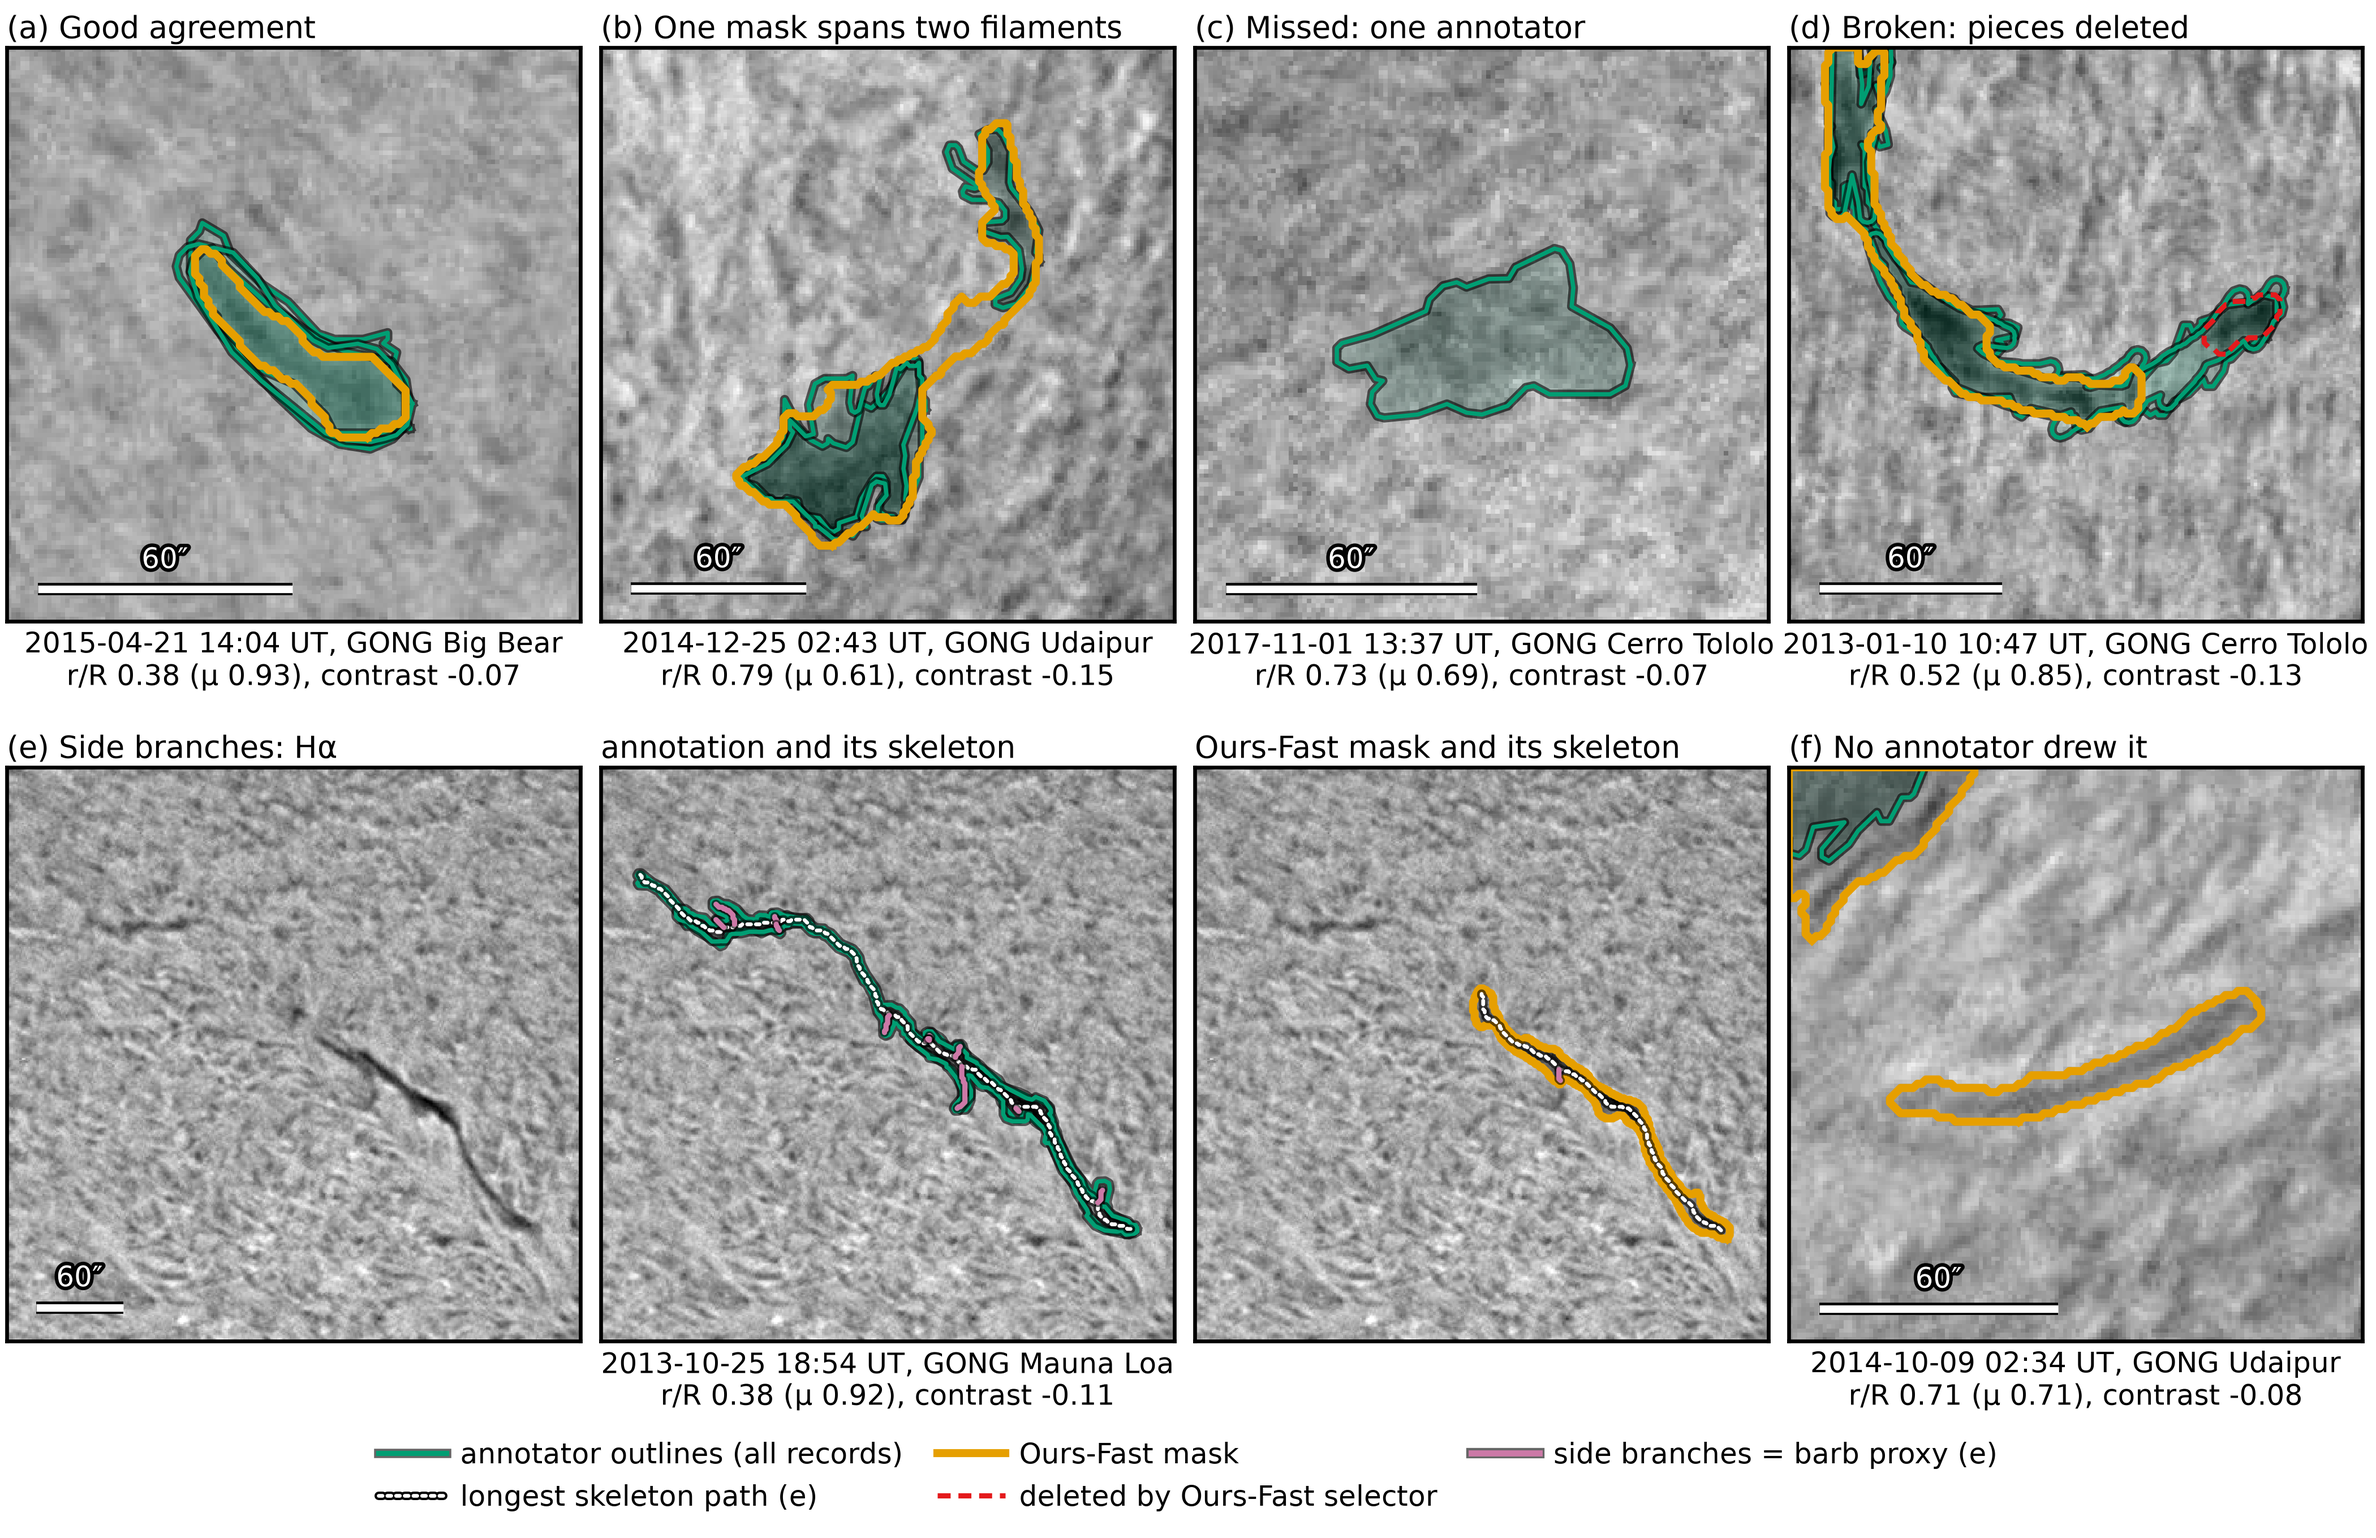
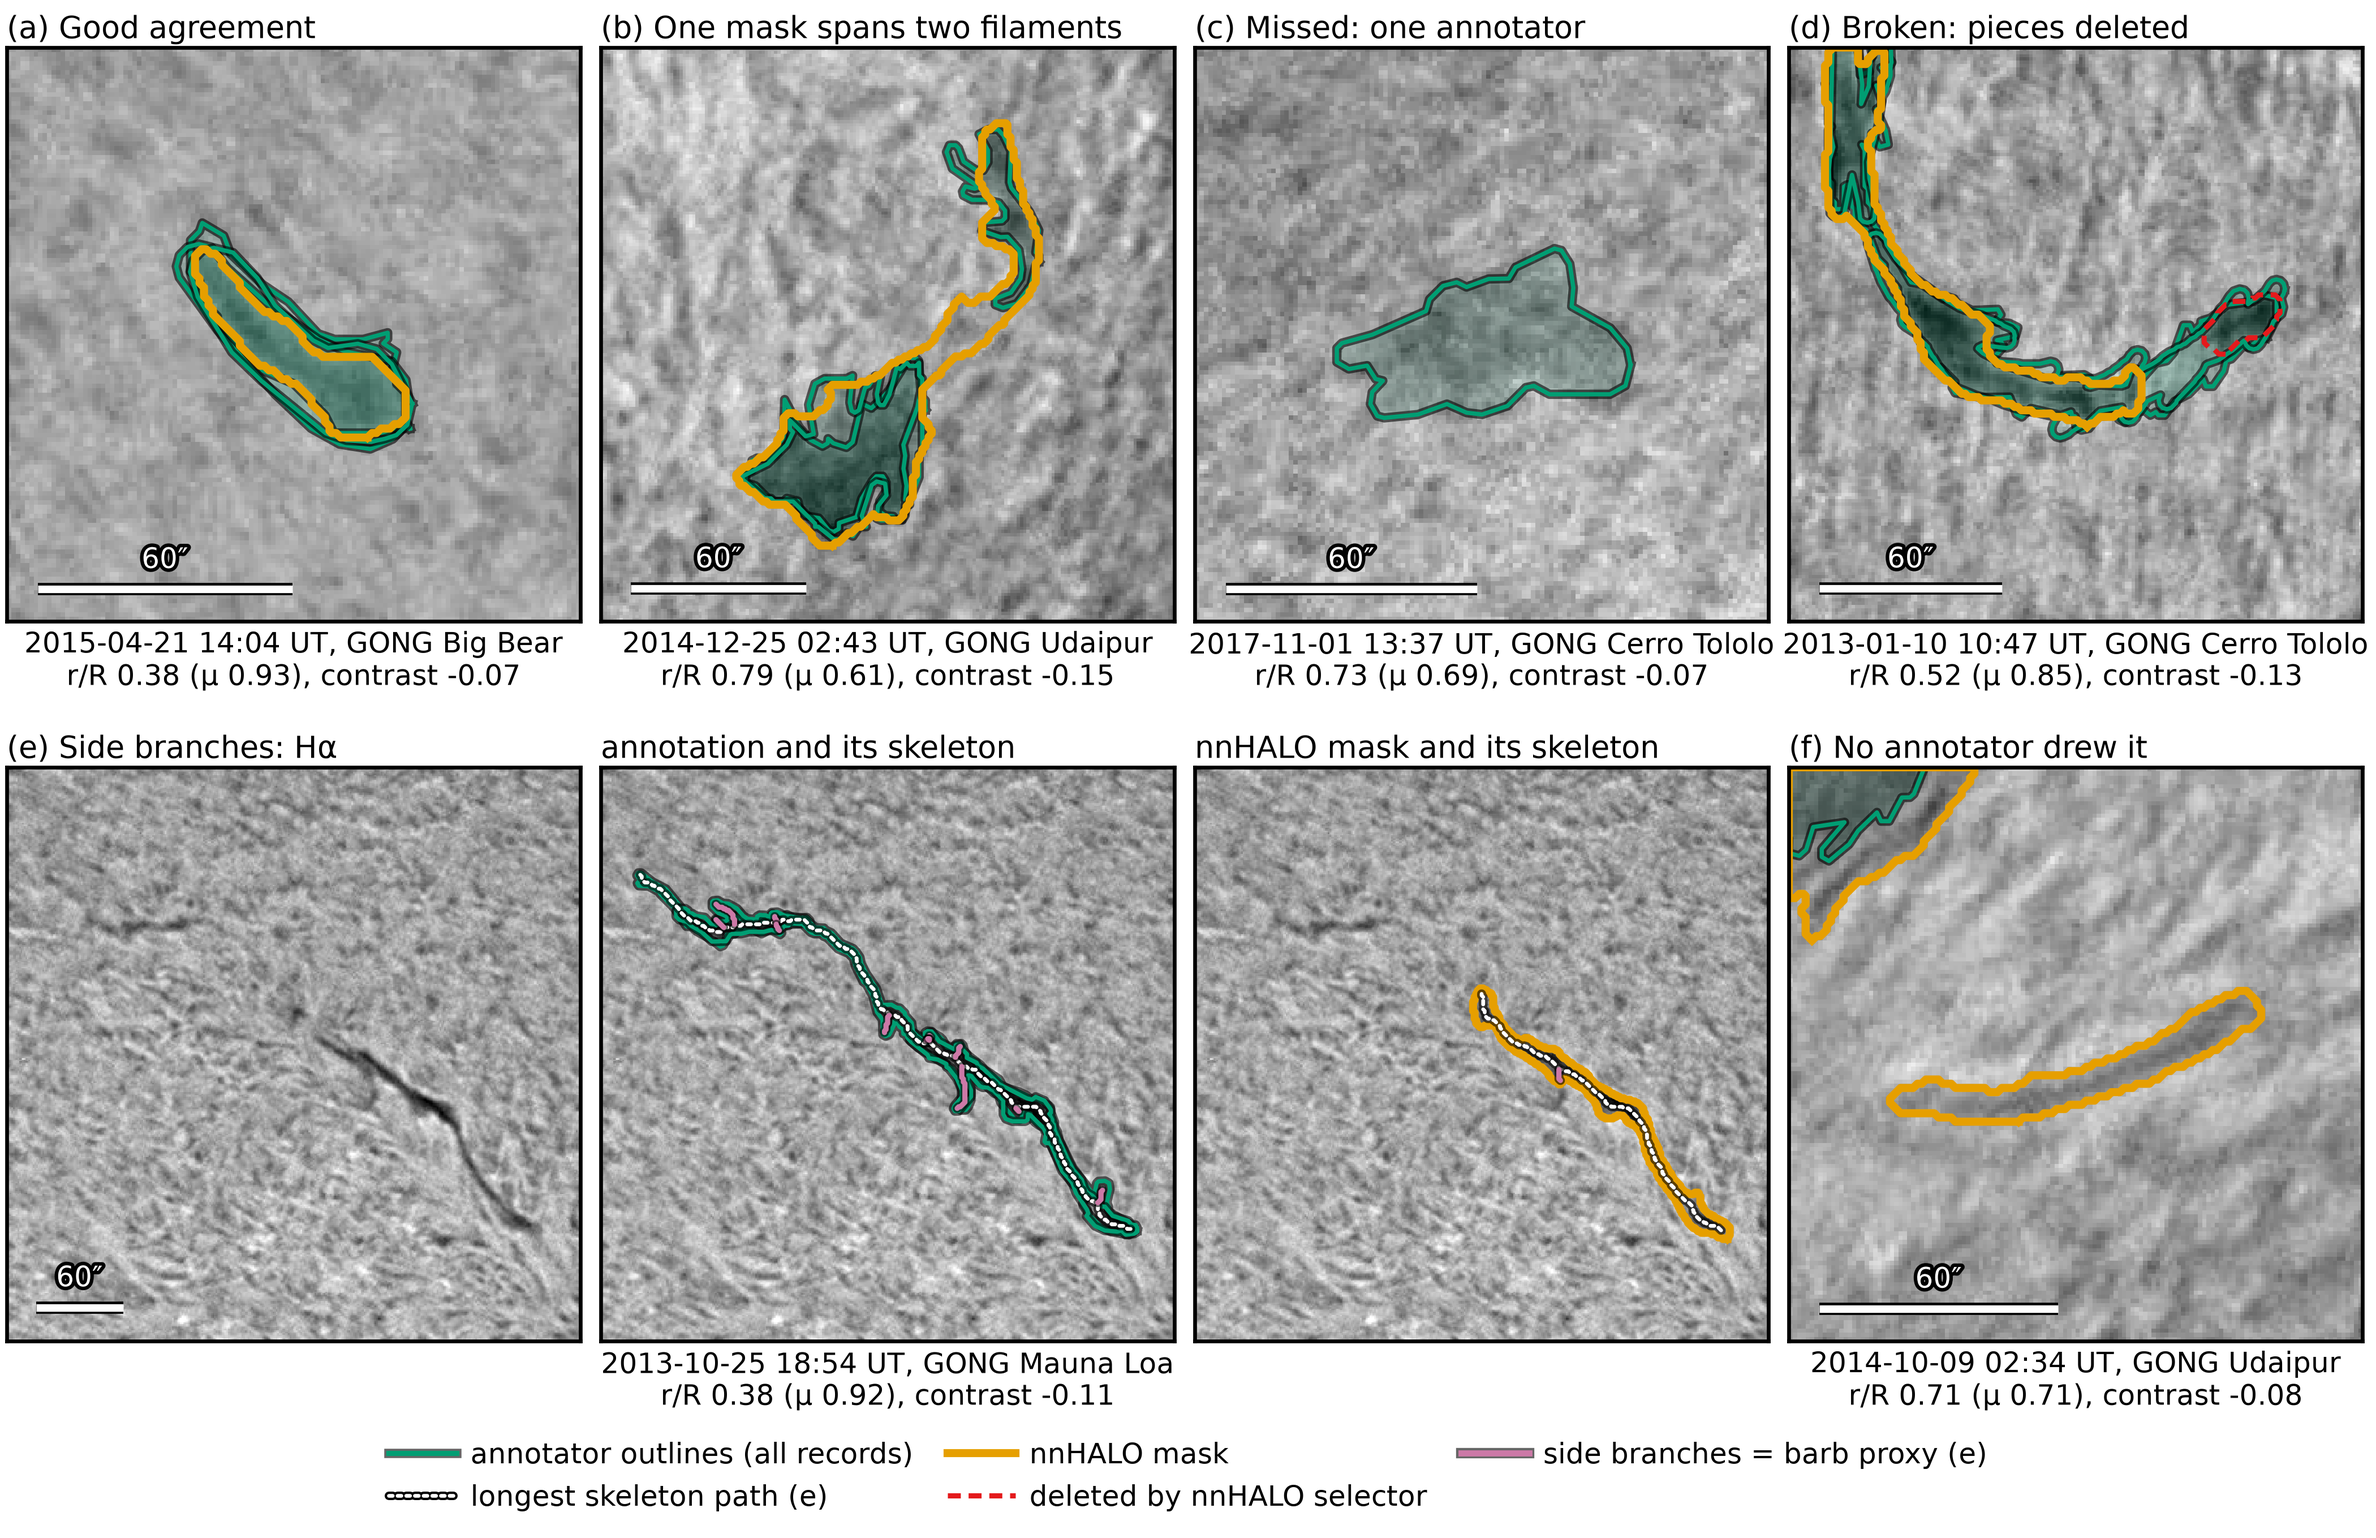
Rename the model Ours-Fast -> nnHALO (H-Alpha segmentation with Learned Object selection) in docs, notebook text and messages; README gallery figure re-copied from the paper (name only)
Internal slot key FAST and all commands unchanged. The notebook's saved output contains the label in one printed table row;
it is updated in place (the same string the build script now prints). CPU tests: 124 passed, 8 skipped.

diff --git a/examples/build_notebook.py b/examples/build_notebook.py
@@ -15,9 +15,9 @@ import nbformat as nbf
 ROOT = Path(__file__).resolve().parents[1]
 
 CELLS = [
-    ("md", """# Ours-Fast, end to end
+    ("md", """# nnHALO, end to end
 
-This notebook is the whole pipeline of **Ours-Fast**, the submitted model, from the raw competition images to the
+This notebook is the whole pipeline of **nnHALO**, the submitted model, from the raw competition images to the
 submission file and its evaluation. The implementation lives in `src/filament_seg/`; each cell calls it.
 
 **weights → (optional) training → input channels → two networks → candidates → selector → submission rows → evaluation**
@@ -267,7 +267,7 @@ from filament_seg.evaluation import expected, oof_selection
 seed = expected.load("heldout_annotator")["rerun_seed"]             # the bootstrap seed of the paper's intervals
 S = json.load(open(oof_selection.eval_dir() / "heldout_annotator.json"))["results"][f"seed_{seed}"]
 pts, dice = S["points"], S["dice"]
-rowsT = [("held-out annotator", "H_A0", dice["H_image_mean"]), ("Ours-Fast", "FAST", dice["FAST_image_mean"]),
+rowsT = [("held-out annotator", "H_A0", dice["H_image_mean"]), ("nnHALO", "FAST", dice["FAST_image_mean"]),
          ("single network (p >= 0.5, >= 400 px)", "D007", dice["D007_image_mean"])]
 print(f"\\n{S['n_images']} observations, {S['n_units']} (observation, held-out annotator) units")
 print(f"{'':40s} {'Dice':>6s} {'IoU':>6s} {'PQ':>6s}  {'GT 1:0':>6s} {'GT 1:>=2':>8s} {'pred 0:1':>8s}")

diff --git a/tests/test_assemble_weights.py b/tests/test_assemble_weights.py
@@ -1,5 +1,5 @@
 """weights.assemble: parts are concatenated in order, a wrong hash fails, and the real stored weights verify.
-The manifest lists exactly Ours-Fast's stored files plus its selector bag, and is the mechanical image of
+The manifest lists exactly nnHALO's stored files plus its selector bag, and is the mechanical image of
 SOURCE_CHECKPOINTS.sha256 (only the stripped nnU-Net checkpoints have new hashes)."""
 import hashlib
 import sys
@@ -47,7 +47,7 @@ def test_unlisted_file_is_refused(tmp_path):
 
 
 def test_real_stored_weights_verify_against_the_manifest(tmp_path):
-    done = weights.assemble(tmp_path / "w", parts_dirs=(weights.PARTS_DIR,))      # Ours-Fast: assembled from parts
+    done = weights.assemble(tmp_path / "w", parts_dirs=(weights.PARTS_DIR,))      # nnHALO: assembled from parts
     assert sum(p.endswith("checkpoint_final.pth") for p in done) == 2
     assert all(p.startswith("nnUNet_results/") for p in done)             # the two nnU-Nets, nothing else
     assert max(p.stat().st_size for p in (ROOT / "weights" / "fast").rglob("*") if p.is_file()) < 100 * 1024 * 1024

diff --git a/scripts/predict.py b/scripts/predict.py
@@ -1,5 +1,5 @@
 #!/usr/bin/env python3
-"""Predict entry point for Ours-Fast (slot FAST), the submitted model.
+"""Predict entry point for nnHALO (slot FAST), the submitted model.
 
   python scripts/predict.py --slot FAST [--bag-dir DIR | --refit]                                    # CPU stage only
   python scripts/predict.py --slot FAST --from-images [--limit N] [--device cuda] [--dry-run]
@@ -40,7 +40,7 @@ SRC = os.path.normpath(os.path.join(HERE, "..", "src"))
 
 def main(argv=None):
     ap = argparse.ArgumentParser(description=__doc__, formatter_class=argparse.RawDescriptionHelpFormatter)
-    ap.add_argument("--slot", default="FAST", choices=("FAST",), help="Ours-Fast, the submitted model (default)")
+    ap.add_argument("--slot", default="FAST", choices=("FAST",), help="nnHALO, the submitted model (default)")
     sel = ap.add_mutually_exclusive_group()
     sel.add_argument("--bag-dir", help="apply DIR/<slot>_bag.pkl instead of the released selector bag")
     sel.add_argument("--refit", action="store_true",

diff --git a/src/filament_seg/gpu/pipeline.py b/src/filament_seg/gpu/pipeline.py
@@ -1,4 +1,4 @@
-"""End-to-end prediction of Ours-Fast from the raw competition test images: channels -> two nnU-Nets -> CPU selector.
+"""End-to-end prediction of nnHALO from the raw competition test images: channels -> two nnU-Nets -> CPU selector.
 
     python scripts/predict.py --from-images --slot FAST [--limit N] [--dry-run] [--device cuda]
                               [--bag-dir DIR | --refit]
@@ -160,7 +160,7 @@ def _selector_steps(slot: str, refit: bool, bag_dir: str | None) -> list:
 
 
 def plan(slot: str, limit: int = 0, device: str = "cuda", refit: bool = False, bag_dir: str | None = None) -> list:
-    """The ordered steps of one slot (only FAST, Ours-Fast, is predicted from this repository)."""
+    """The ordered steps of one slot (only FAST, nnHALO, is predicted from this repository)."""
     P = fp.PREDICTIONS
     if slot == "FAST":
         steps = [_channels_step(["D007", "D036"], limit),          # the two networks' inputs only (D005 is not read by FAST)

diff --git a/src/filament_seg/filament_paths.py b/src/filament_seg/filament_paths.py
@@ -57,7 +57,7 @@ WEIGHTS = Path(os.environ.get("FILAMENT_WEIGHTS", REPO / "weights" / "downloaded
 # repository; their sha256 is in WEIGHTS_MANIFEST and is checked before any bag is unpickled.
 SELECTOR_BAGS = Path(os.environ.get("FILAMENT_SELECTOR_BAGS", REPO / "weights" / "selector"))
 WEIGHTS_MANIFEST = REPO / "weights" / "MANIFEST.sha256"
-REFERENCE_SUBMISSIONS = REPO / "submissions"         # the uploaded Ours-Fast submission file (never overwritten)
+REFERENCE_SUBMISSIONS = REPO / "submissions"         # the uploaded nnHALO submission file (never overwritten)
 PREDICTIONS = Path(os.environ.get("FILAMENT_PREDICTIONS", WORK / "predictions"))
 SUBMISSIONS_OUT = Path(os.environ.get("FILAMENT_SUBMISSIONS_OUT", REPO / "submissions" / "out"))
 CONFIGS = REPO / "configs"

diff --git a/src/filament_seg/evaluation/never_seen.py b/src/filament_seg/evaluation/never_seen.py
@@ -1,7 +1,7 @@
 """The never-seen class: what distinguishes the annotated filaments a model never fires on (707 OOF).
 
 Port of the original per-object rows, features, classes and area-stratified AUCs, and of the per-bag
-reclassification for Ours-Fast. Same arithmetic; the full-image dilations are done on crops that contain their whole reach, which selects the same pixels.
+reclassification for nnHALO. Same arithmetic; the full-image dilations are done on crops that contain their whole reach, which selects the same pixels.
 
 REFERENCE  the union of every record's mask, from the per-record source `records` (`records.source`): `coco` (DEFAULT,
            each record rasterised from the competition COCO; the union = Dataset005 labelsTr) or `png` (the historical

diff --git a/src/filament_seg/weights.py b/src/filament_seg/weights.py
@@ -1,6 +1,6 @@
 """Assemble the weights stored in this repository into the `$FILAMENT_WEIGHTS` layout.
 
-`weights/fast/` holds the two networks of Ours-Fast in plain git: GitHub blocks files above 100 MiB, so each
+`weights/fast/` holds the two networks of nnHALO in plain git: GitHub blocks files above 100 MiB, so each
 checkpoint is stored as `<name>.part000`, `.part001`, ... of at most 90 MiB. `assemble` concatenates the parts (small files are copied as they are) and checks every resulting file
 against `weights/MANIFEST.sha256`; a file whose hash does not match is deleted and the call fails. Files that are
 already in place with the right hash are skipped, so it is safe to call repeatedly.

diff --git a/tests/test_reproduction_tolerance.py b/tests/test_reproduction_tolerance.py
@@ -7,7 +7,7 @@
 Each clause is tested on plain numbers (`classify`), so that a control fails for the reason it names and not for
 another clause. Negative controls (must FAIL): 4 images off by one; one image off by 2; pooled Dice just below the
 floor; a total off by 4; an unknown image id; verify_submission failing. Positive controls: 3 images +-1 at the floor.
-The real Ours-Fast fresh-clone re-run (tests/fixtures/reruns/) is classified as the README records.
+The real nnHALO fresh-clone re-run (tests/fixtures/reruns/) is classified as the README records.
 """
 import json
 import sys

diff --git a/scripts/check_weights_tree.py b/scripts/check_weights_tree.py
@@ -4,7 +4,7 @@
 
 ROOT is a tree in the `$FILAMENT_WEIGHTS` layout (`nnUNet_results/...`), for example the output of
 `scripts/assemble_weights.py`. Passing means:
-  * every model entry of the manifest (the networks of Ours-Fast) is present in ROOT with the manifest's sha256;
+  * every model entry of the manifest (the networks of nnHALO) is present in ROOT with the manifest's sha256;
   * every other file in ROOT is a manifest entry with the manifest's sha256, apart from the names in `--ignore`
     (default: strip_report.json).
 Exit 0 = pass, 1 = fail.

diff --git a/scripts/eval_never_seen.py b/scripts/eval_never_seen.py
@@ -115,7 +115,7 @@ def main() -> int:
                  records=a.records)
     rows = res.pop("_rows")
     ref = reference_rows(rows, a.reference_rows, a.reference_features) if a.reference_rows else None
-    out = {"what": "never-seen class features, D007 and Ours-Fast", "records": a.records, "results": res,
+    out = {"what": "never-seen class features, D007 and nnHALO", "records": a.records, "results": res,
            "gate": gate(res, exp, ref),
            "not_reproduced": exp["not_reproduced"],
            "seconds": round(time.time() - t0, 1)}

diff --git a/tests/test_notebook.py b/tests/test_notebook.py
@@ -1,6 +1,6 @@
-"""pipeline.ipynb is saved executed, without errors; it assembled Ours-Fast's weights from weights/fast/, its two
+"""pipeline.ipynb is saved executed, without errors; it assembled nnHALO's weights from weights/fast/, its two
 networks ran in that execution (not read from an earlier run), its final rows agree with the submitted file, it
-loads only Ours-Fast, and no machine-specific path is left in its outputs."""
+loads only nnHALO, and no machine-specific path is left in its outputs."""
 import json
 from pathlib import Path
 

diff --git a/src/filament_seg/training.py b/src/filament_seg/training.py
@@ -1,4 +1,4 @@
-"""Training of Ours-Fast, as runnable, resumable steps: the full recipe of `docs/TRAINING.md`, and smoke runs of it.
+"""Training of nnHALO, as runnable, resumable steps: the full recipe of `docs/TRAINING.md`, and smoke runs of it.
 
     python scripts/train.py full        [--dry-run] [--root DIR]   # the recipe of the shipped weights (~65 GPU-h)
     python scripts/train.py smoke       [--dry-run] [--root DIR]   # 10 cases, fold 0, 1 epoch (~2.5 min): the notebook's check
